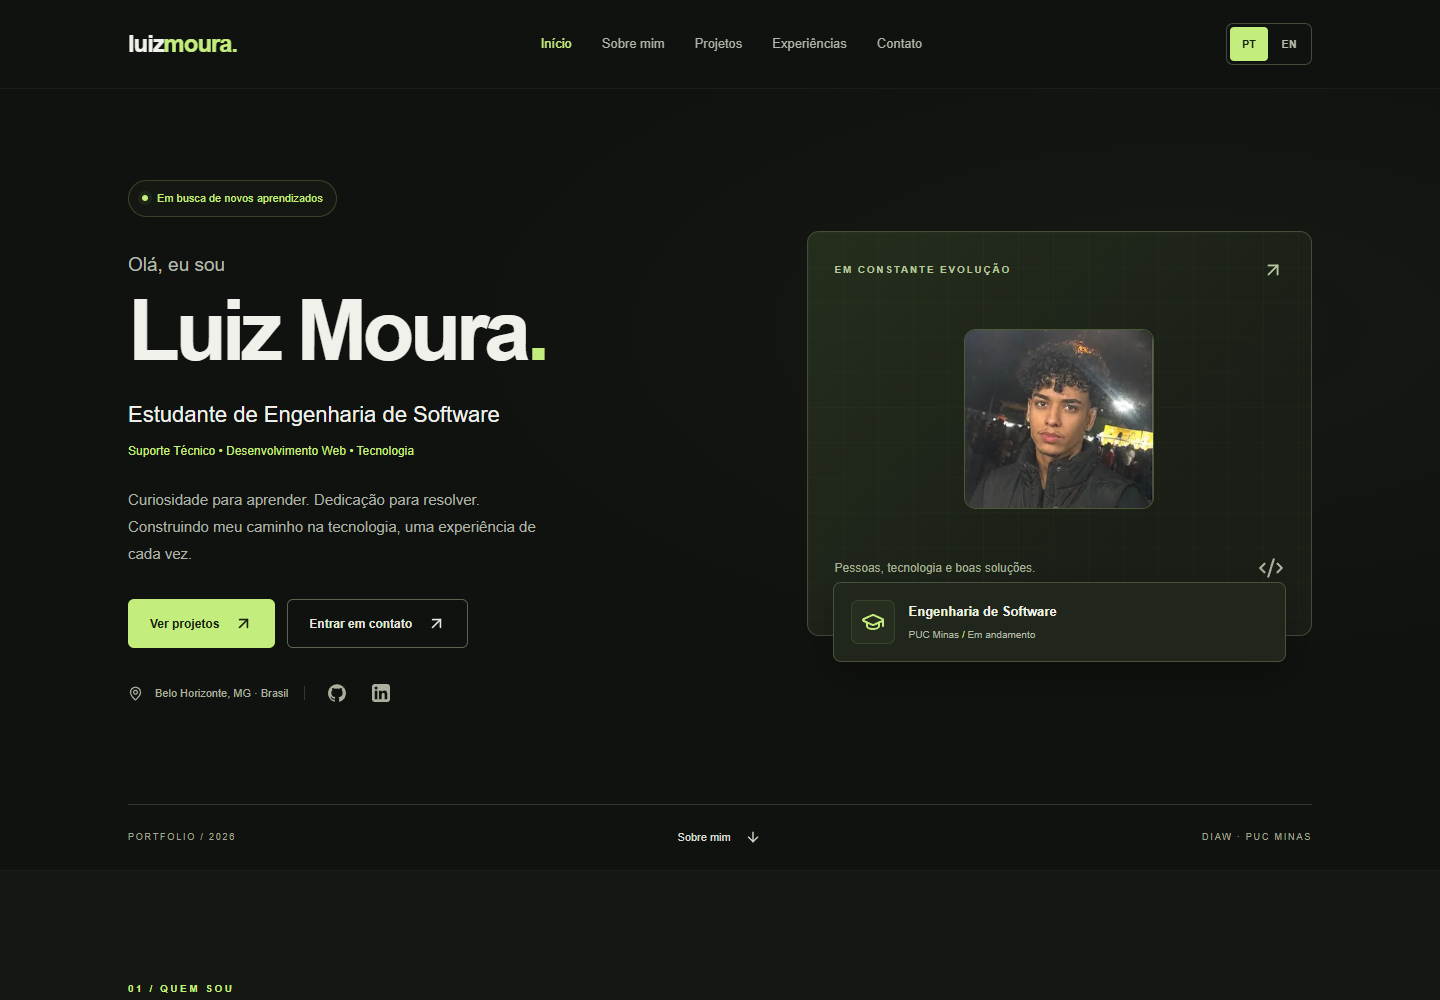
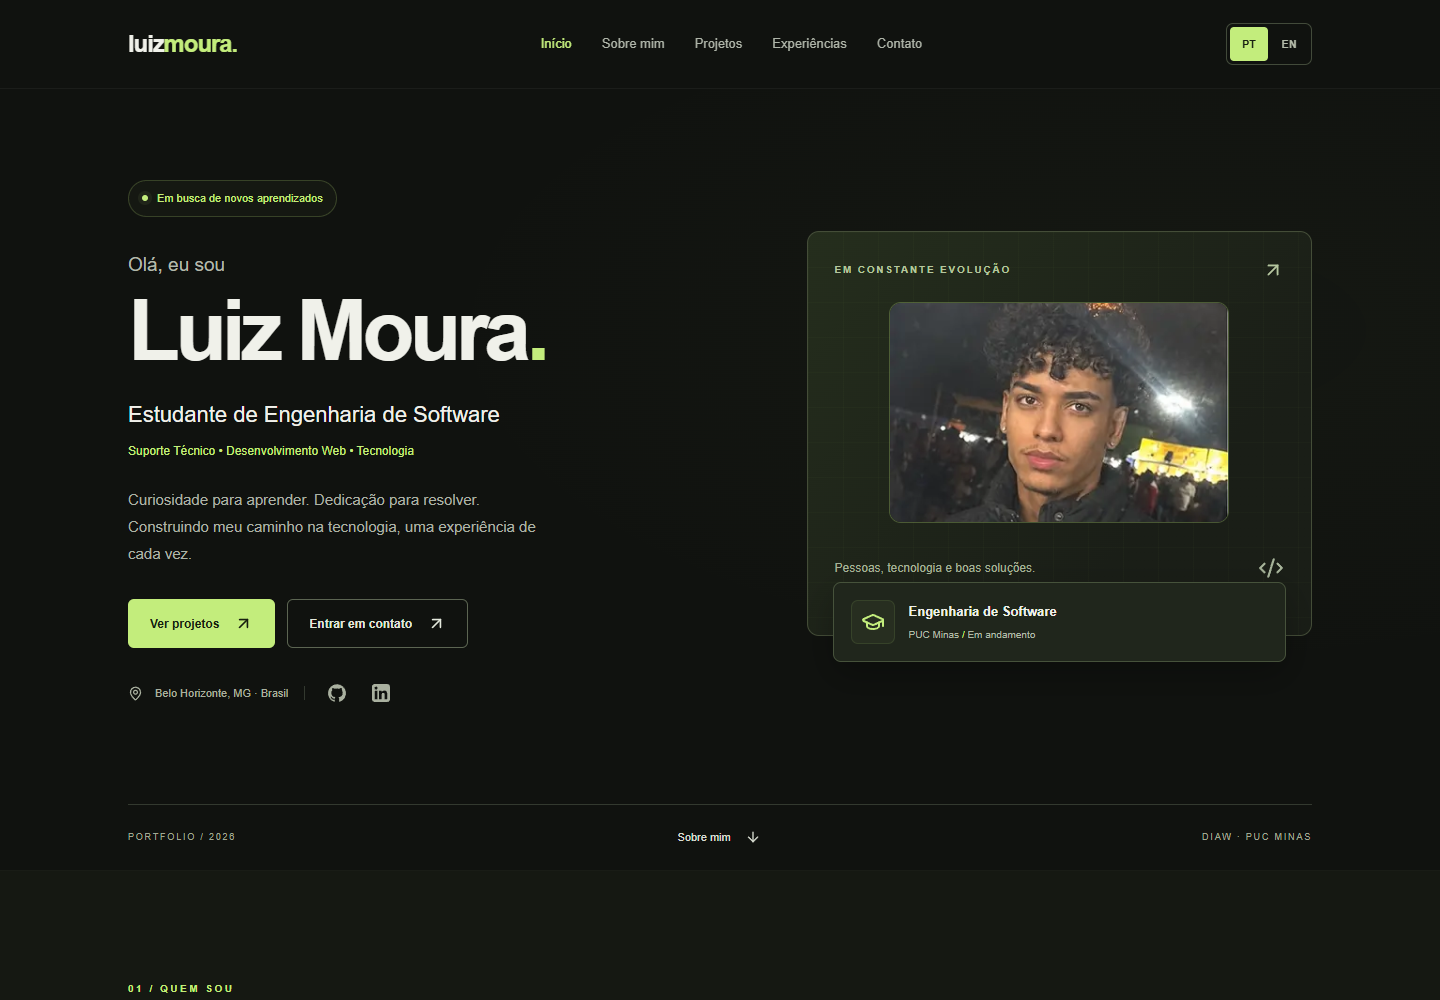
style: enlarge hero portrait while preserving card layout

Changed region(s): [[0.5938, 0.279, 0.875, 0.527], [0.5938, 0.465, 0.625, 0.496]]

diff --git a/src/app/globals.css b/src/app/globals.css
@@ -58,8 +58,9 @@ h1 span { color: var(--lime); }
 .profile-art::before { content: ""; position: absolute; inset: 0; z-index: -1; background-image: linear-gradient(#c3ed7c06 1px, transparent 1px), linear-gradient(90deg,#c3ed7c06 1px,transparent 1px); background-size: 35px 35px; border-radius: 12px; }
 .art-top { padding: 27px; display: flex; justify-content: space-between; align-items: center; color: #b5c69f; }
 .tiny-label { font-size: 10px; letter-spacing: 1.8px; line-height: 1.6; font-weight: 600; text-transform: uppercase; }
-.profile-photo { position: relative; width: clamp(150px, 17vw, 190px); aspect-ratio: 360 / 340; margin-inline: auto; border: 1px solid #c3ed7c45; border-radius: 12px; overflow: hidden; }
-.profile-photo img { object-fit: cover; object-position: center; }
+.profile-photo { position: absolute; inset: 70px 27px 112px; max-width: 340px; margin-inline: auto; border: 1px solid #c3ed7c45; border-radius: 12px; overflow: hidden; }
+.profile-photo img { object-fit: cover; object-position: center 35%; }
+@media (max-width: 700px) { .profile-photo { inset: 56px 23px 94px; max-width: 280px; } }
 .art-bottom { padding: 25px 27px 54px; color: #a7b49a; display: flex; justify-content: space-between; gap: 20px; align-items: center; font-size: 12px; }
 .art-bottom span { max-width: 210px; line-height: 1.7; }
 .education-float { position: absolute; bottom: -27px; left: 25px; right: 25px; display: flex; align-items: center; gap: 14px; background: #20261c; border: 1px solid #46523b; padding: 17px; border-radius: 8px; box-shadow: 0 14px 35px #0004; }

diff --git a/tests/e2e/portfolio.spec.ts b/tests/e2e/portfolio.spec.ts
@@ -12,7 +12,13 @@ for (const width of [1440, 1024, 768, 390, 360]) {
     await expect.poll(() => portrait.evaluate((el: HTMLImageElement) => el.naturalWidth)).toBeGreaterThan(0);
     const photoBounds = await portrait.boundingBox();
     expect(photoBounds).not.toBeNull();
-    expect(photoBounds!.width / photoBounds!.height).toBeCloseTo(360 / 340, 1);
+    expect(photoBounds!.width).toBeGreaterThanOrEqual(width <= 700 ? 240 : 200);
+    expect(await portrait.evaluate(el => getComputedStyle(el).objectFit)).toBe("cover");
+    const cardBounds = await page.locator(".profile-art").boundingBox();
+    expect(cardBounds).not.toBeNull();
+    expect(cardBounds!.height).toBe(width <= 700 ? 320 : width <= 900 ? 350 : width <= 1100 ? 370 : 405);
+    expect(photoBounds!.y).toBeGreaterThan(cardBounds!.y);
+    expect(photoBounds!.y + photoBounds!.height).toBeLessThan(cardBounds!.y + cardBounds!.height);
     const projectImage = page.locator(".project-visual img");
     await projectImage.scrollIntoViewIfNeeded();
     await expect(projectImage).toBeVisible();

diff --git a/src/components/portfolio.tsx b/src/components/portfolio.tsx
@@ -70,7 +70,7 @@ export function Portfolio() {
           </div>
           <div className="profile-art" aria-label={t.profileCaption}>
             <div className="art-top"><span className="tiny-label">{t.profileLabel}</span><ArrowUpRight size={22} /></div>
-            <div className="profile-photo"><Image src="/images/luiz-linkedin.png" alt={t.profilePhotoAlt} fill sizes="(max-width: 900px) 150px, 190px" preload /></div>
+            <div className="profile-photo"><Image src="/images/luiz-linkedin.png" alt={t.profilePhotoAlt} fill sizes="(max-width: 700px) 280px, (max-width: 900px) 270px, 340px" preload /></div>
             <div className="art-bottom"><span>{t.profileCaption}</span><Code2 size={26} /></div>
             <div className="education-float"><div className="icon-box"><GraduationCap size={24} /></div><div><strong>{t.courseShort}</strong><span>{t.university} <span className="lime">/</span> {t.ongoing}</span></div></div>
           </div>

diff --git a/STATUS.md b/STATUS.md
@@ -1,5 +1,11 @@
 # Checkpoint DIAW — publicado em 22/10/2026
 
+## Ajuste de destaque da fotografia — 23/10/2026
+- Fotografia ampliada para até 340 px no desktop e 280 px no mobile, centralizada com object-fit: cover e enquadramento vertical em 35%.
+- Altura externa do cartão preservada em cada breakpoint; restante do layout e funcionalidades sem alterações.
+- Build, lint e typecheck aprovados; cinco cenários de resolução e atualização das capturas aprovados (6 testes E2E).
+- Revisão visual desktop/mobile concluída. Base anterior: 6868425; ajuste publicado em um novo commit, sem reescrever histórico.
+
 ## Melhoria posterior à entrega — 23/10/2026
 - Foto original fornecida pelo autor adicionada ao cartão principal com next/image, proporção preservada e alt PT/EN.
 - Arquivo renomeado para public/images/luiz-linkedin.png; pixels da fotografia não editados.
